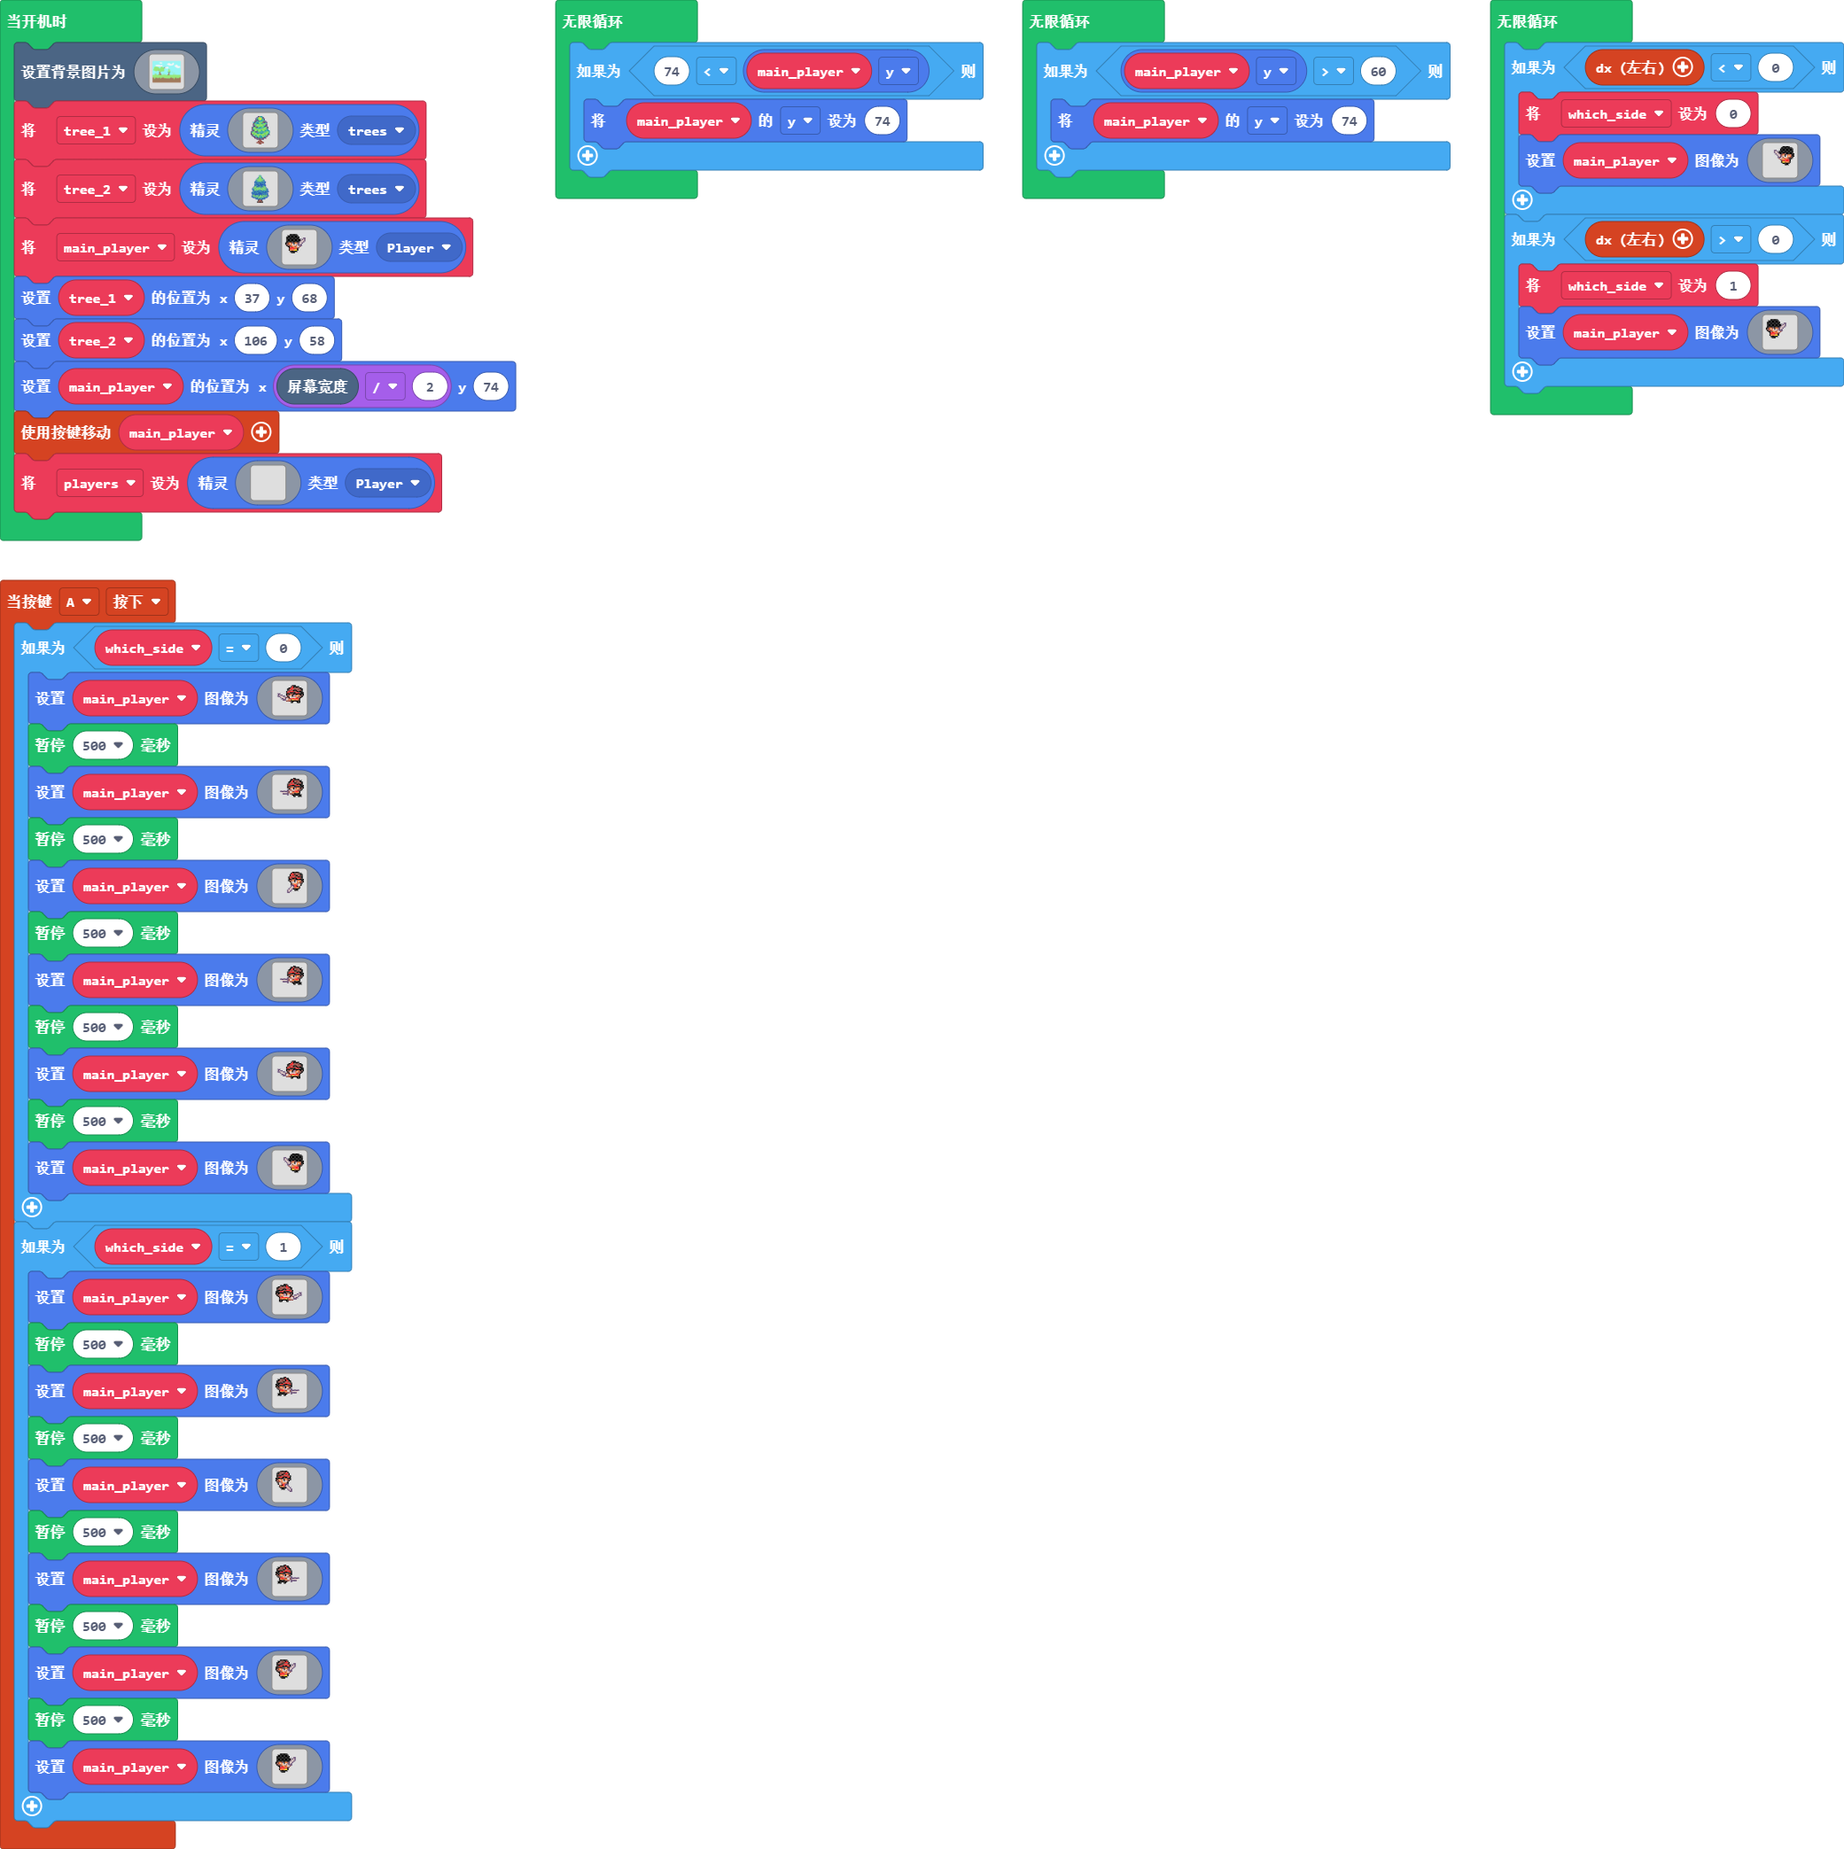
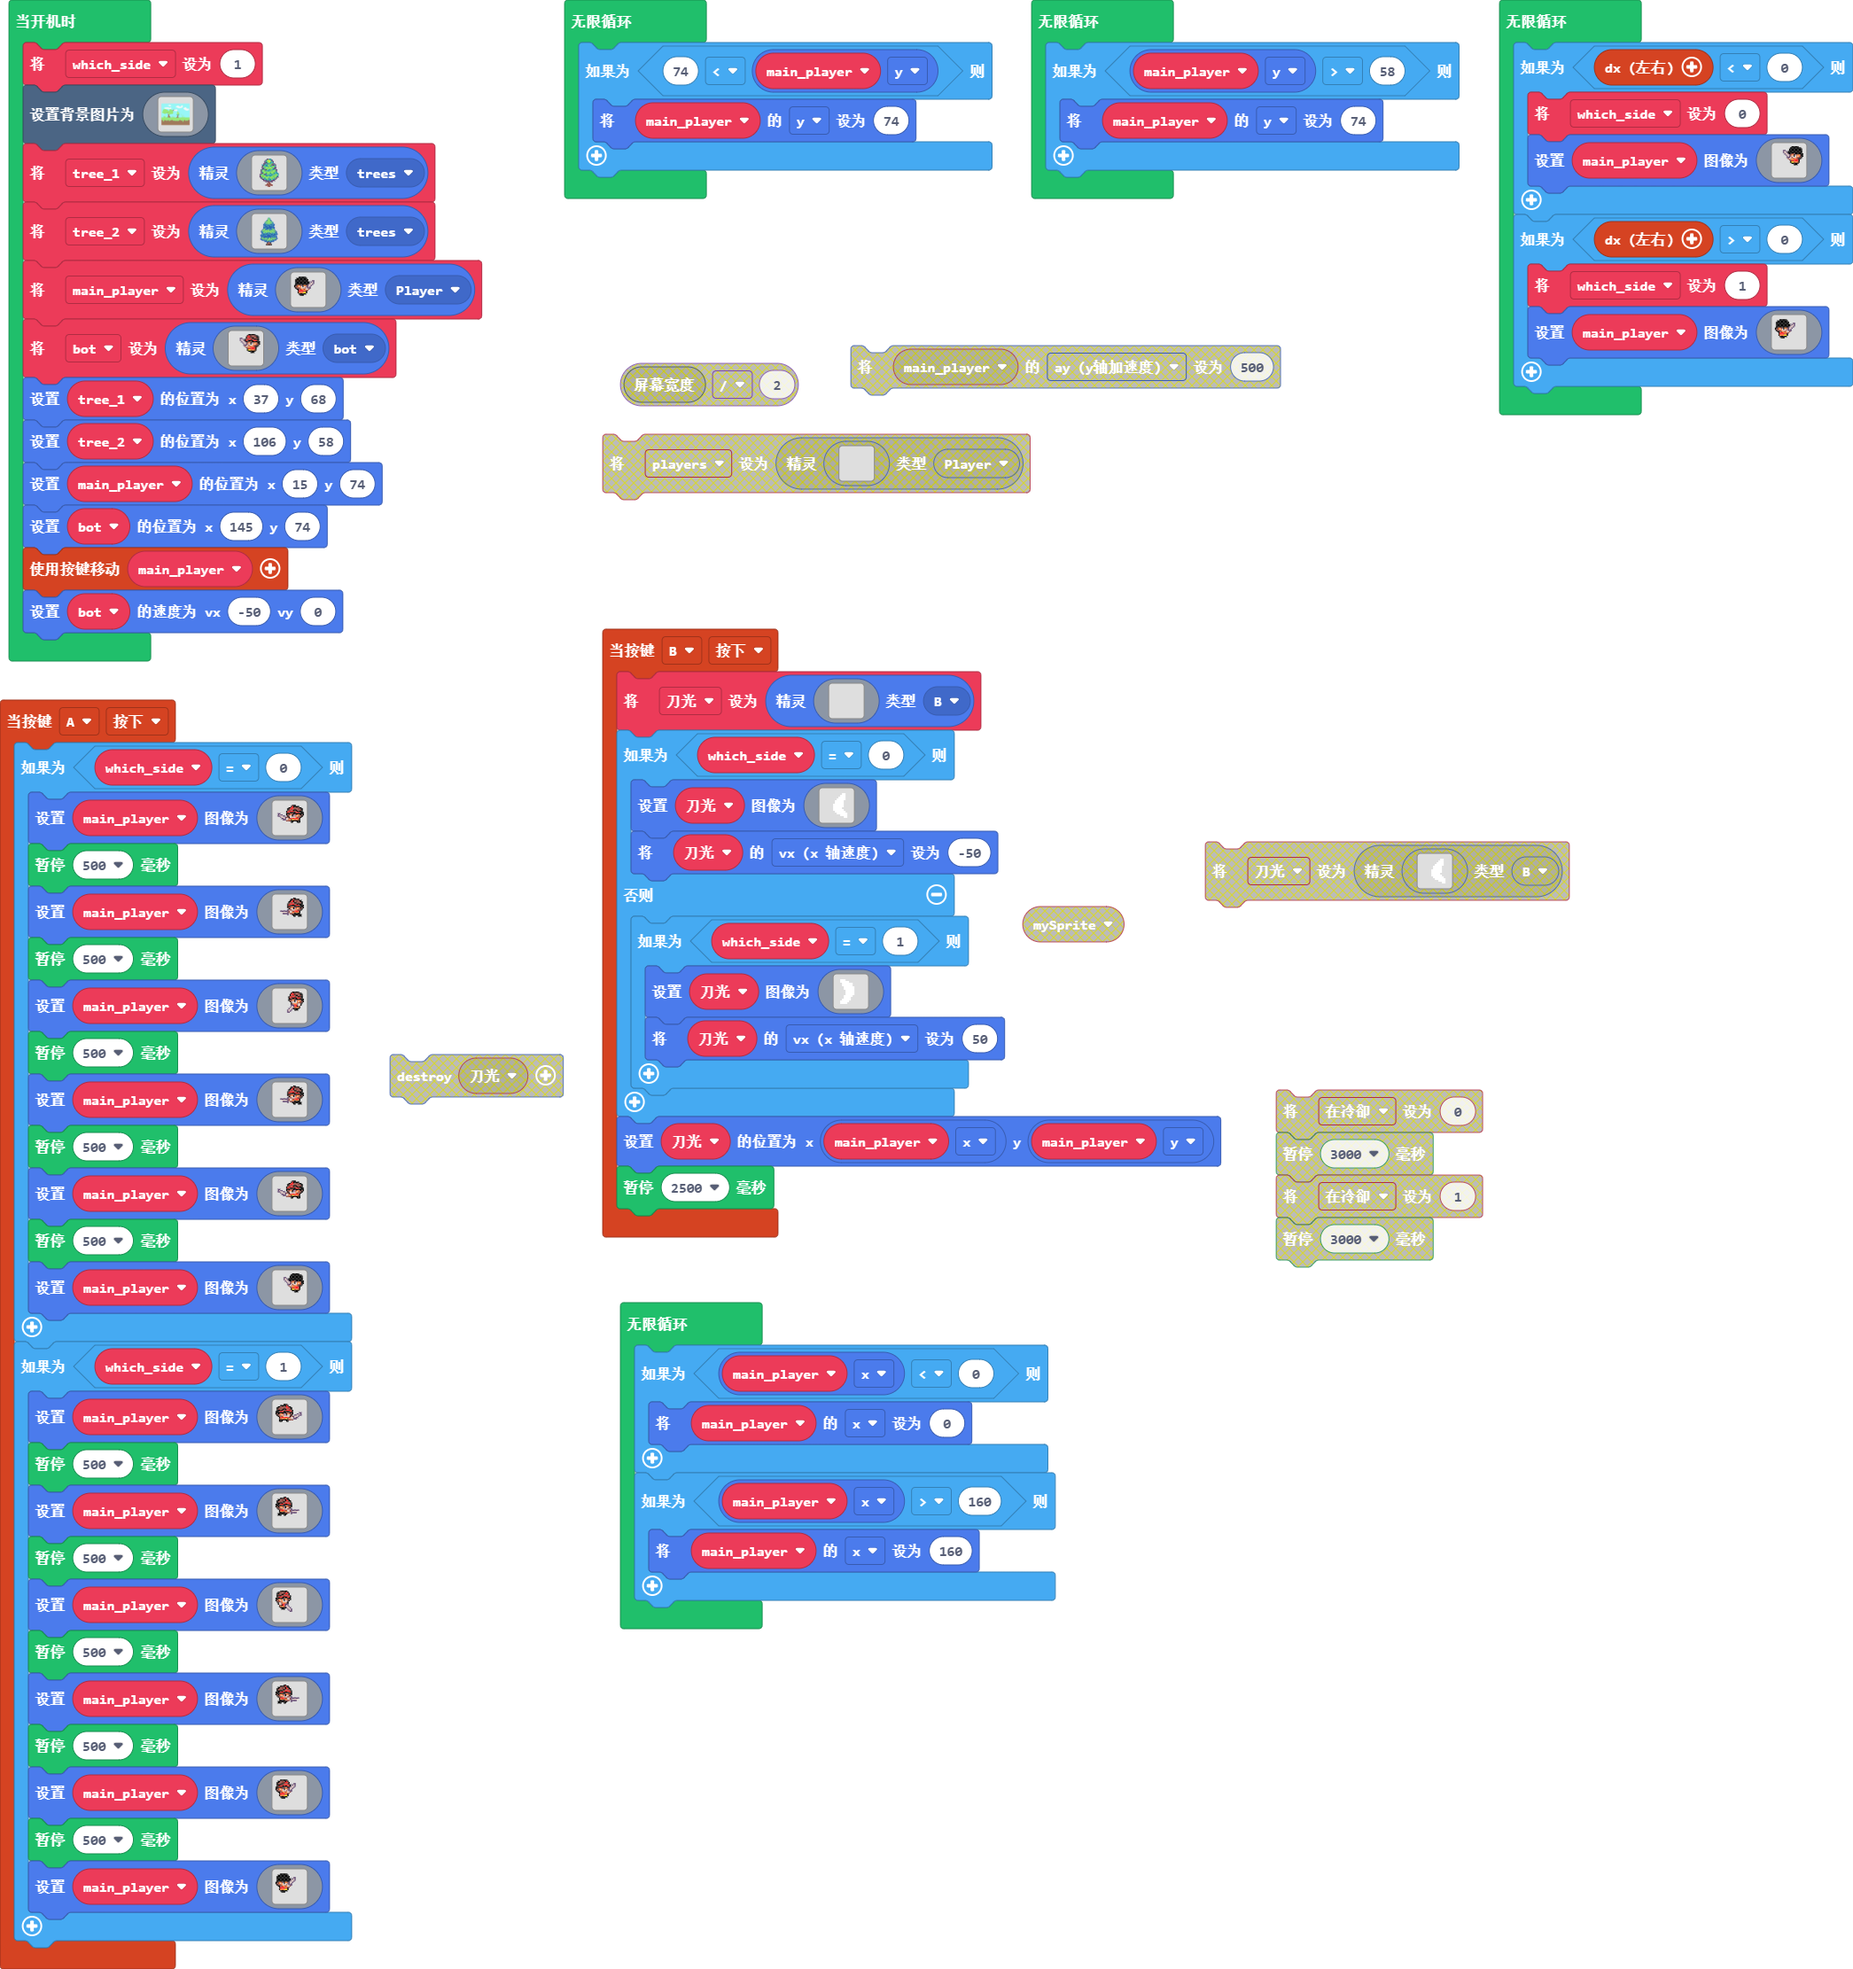
更新 main.blocks, main.ts

diff --git a/main.ts b/main.ts
@@ -1,5 +1,7 @@
 namespace SpriteKind {
     export const trees = SpriteKind.create()
+    export const B = SpriteKind.create()
+    export const bot = SpriteKind.create()
 }
 controller.A.onEvent(ControllerButtonEvent.Pressed, function () {
     if (which_side == 0) {
@@ -329,8 +331,75 @@ controller.A.onEvent(ControllerButtonEvent.Pressed, function () {
             `)
     }
 })
-let which_side = 0
+controller.B.onEvent(ControllerButtonEvent.Pressed, function () {
+    刀光 = sprites.create(img`
+        . . . . . . . . . . . . . . . . 
+        . . . . . . . . . . . . . . . . 
+        . . . . . . . . . . . . . . . . 
+        . . . . . . . . . . . . . . . . 
+        . . . . . . . . . . . . . . . . 
+        . . . . . . . . . . . . . . . . 
+        . . . . . . . . . . . . . . . . 
+        . . . . . . . . . . . . . . . . 
+        . . . . . . . . . . . . . . . . 
+        . . . . . . . . . . . . . . . . 
+        . . . . . . . . . . . . . . . . 
+        . . . . . . . . . . . . . . . . 
+        . . . . . . . . . . . . . . . . 
+        . . . . . . . . . . . . . . . . 
+        . . . . . . . . . . . . . . . . 
+        . . . . . . . . . . . . . . . . 
+        `, SpriteKind.B)
+    if (which_side == 0) {
+        刀光.setImage(img`
+            . . . . . . . . . . . . . . . . 
+            . . . . . . . . . . . 1 1 . . . 
+            . . . . . . . . . . 1 1 1 . . . 
+            . . . . . . . . . 1 1 1 1 . . . 
+            . . . . . . . . 1 1 1 1 1 . . . 
+            . . . . . . . 1 1 1 1 1 . . . . 
+            . . . . . . . 1 1 1 1 1 . . . . 
+            . . . . . . 1 1 1 1 1 1 . . . . 
+            . . . . . . 1 1 1 1 1 1 . . . . 
+            . . . . . . 1 1 1 1 1 . . . . . 
+            . . . . . . 1 1 1 1 1 1 . . . . 
+            . . . . . . . 1 1 1 1 1 1 . . . 
+            . . . . . . . . 1 1 1 1 1 1 . . 
+            . . . . . . . . . . 1 1 1 1 . . 
+            . . . . . . . . . . . . 1 1 . . 
+            . . . . . . . . . . . . . . . . 
+            `)
+        刀光.vx = -50
+    } else {
+        if (which_side == 1) {
+            刀光.setImage(img`
+                . . . . . . . . . . . . . . . . 
+                . . 1 1 1 . . . . . . . . . . . 
+                . . 1 1 1 1 1 . . . . . . . . . 
+                . . . 1 1 1 1 1 1 . . . . . . . 
+                . . . 1 1 1 1 1 1 . . . . . . . 
+                . . . . 1 1 1 1 1 1 . . . . . . 
+                . . . . 1 1 1 1 1 1 . . . . . . 
+                . . . . . 1 1 1 1 1 . . . . . . 
+                . . . . . 1 1 1 1 1 . . . . . . 
+                . . . . . 1 1 1 1 1 . . . . . . 
+                . . . . 1 1 1 1 1 . . . . . . . 
+                . . . . 1 1 1 1 . . . . . . . . 
+                . . . 1 1 1 1 1 . . . . . . . . 
+                . . 1 1 1 1 1 . . . . . . . . . 
+                . . 1 1 1 1 . . . . . . . . . . 
+                . . . . . . . . . . . . . . . . 
+                `)
+            刀光.vx = 50
+        }
+    }
+    刀光.setPosition(main_player.x, main_player.y)
+    pause(2500)
+})
+let 刀光: Sprite = null
 let main_player: Sprite = null
+let which_side = 0
+which_side = 1
 scene.setBackgroundImage(img`
     9999999999999999999999999999999999999999999999999999999999999999999999999999999999999999999999999999999999999999999999999999999999999999999999999999999999999999
     9999999999999999999999999999999999999999999999999999999999999999999999999999999999999999999999999999999999999999999999999999999999999999999999999999999999999999
@@ -547,35 +616,45 @@ main_player = sprites.create(img`
     ........................
     ........................
     `, SpriteKind.Player)
+let bot = sprites.create(img`
+    ..............ffffff....
+    .............f2feeeeff..
+    ............f222feeeeff.
+    .......cc...feeeeffeeef.
+    .......cdc.fe2222eeffff.
+    .......cddcf2effff222ef.
+    ........cddcffeeefffffff
+    .........cddce44fbe44eff
+    ..........cdceddf14d4eef
+    ..........cccdeddd4eeef.
+    ...........edd4e44eeff..
+    ............ee442222f...
+    .............f2e2222f...
+    .............f554444f...
+    ..............ffffff....
+    ................fff.....
+    ........................
+    ........................
+    ........................
+    ........................
+    ........................
+    ........................
+    ........................
+    ........................
+    `, SpriteKind.bot)
 tree_1.setPosition(37, 68)
 tree_2.setPosition(106, 58)
-main_player.setPosition(scene.screenWidth() / 2, 74)
+main_player.setPosition(15, 74)
+bot.setPosition(145, 74)
 controller.moveSprite(main_player)
-let players = sprites.create(img`
-    . . . . . . . . . . . . . . . . 
-    . . . . . . . . . . . . . . . . 
-    . . . . . . . . . . . . . . . . 
-    . . . . . . . . . . . . . . . . 
-    . . . . . . . . . . . . . . . . 
-    . . . . . . . . . . . . . . . . 
-    . . . . . . . . . . . . . . . . 
-    . . . . . . . . . . . . . . . . 
-    . . . . . . . . . . . . . . . . 
-    . . . . . . . . . . . . . . . . 
-    . . . . . . . . . . . . . . . . 
-    . . . . . . . . . . . . . . . . 
-    . . . . . . . . . . . . . . . . 
-    . . . . . . . . . . . . . . . . 
-    . . . . . . . . . . . . . . . . 
-    . . . . . . . . . . . . . . . . 
-    `, SpriteKind.Player)
+bot.setVelocity(-50, 0)
 forever(function () {
     if (74 < main_player.y) {
         main_player.y = 74
     }
 })
 forever(function () {
-    if (main_player.y > 60) {
+    if (main_player.y > 58) {
         main_player.y = 74
     }
 })
@@ -637,5 +716,13 @@ forever(function () {
             ........................
             ........................
             `)
+    }
+})
+forever(function () {
+    if (main_player.x < 0) {
+        main_player.x = 0
+    }
+    if (main_player.x > 160) {
+        main_player.x = 160
     }
 })
